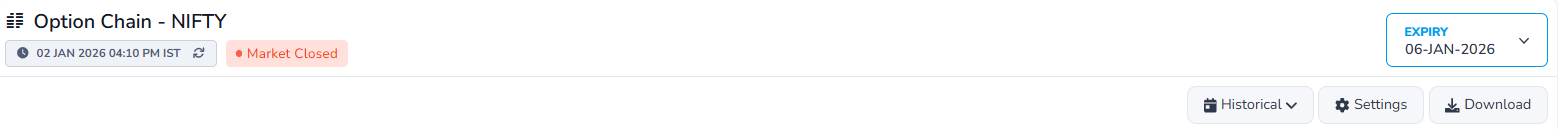
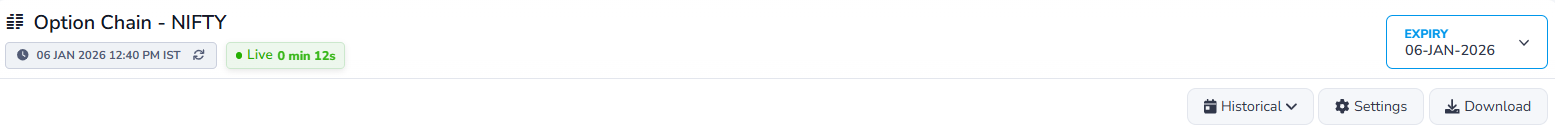
added Gif's and updated header images

diff --git a/OptionChain/optionchian.html b/OptionChain/optionchian.html
@@ -14,46 +14,62 @@
 
     <div class="container my-5 p-4 border rounded shadow-sm">
 
-         <h2 class="pb-2 border-bottom">Explanation of Headers</h2>
+          <h2 class="pb-2 border-bottom">Headers</h2>
            <div class="text-center my-4">
             <img src="assets/image_3.png" class="img-fluid img-thumbnail" alt="error loading image">
            </div>
 
-            <h2 class="pb-2 border-bottom">Left side Explanation</h2>
+            <h2 class="pb-2 border-bottom"> Explanation of Headers</h2>
             <div class="text-center my-4">
-            <img src="assets/image_4.png" class="img-fluid img-thumbnail w-75" alt="error loading image">
-           </div>
+            <img src="assets/image_4.png" class="img-fluid img-thumbnail explain-img" alt="error loading image">
+            </div>
 
-           
-            <h2 class="pb-2 border-bottom">Right side Explanation</h2>
-             <h4 class="pb-2 border-bottom">Explanation  of Expiry</h4>
+            <h4 class="pb-2"><strong>1.</strong> Last Updated Time</h4>
+            <p class="pb-2 fs-4">
+                This indicates the most recent time when the option chain data was refreshed. It helps users know how
+                current the information is.
+            </p>
+            <h4 class="pb-2"><strong>2.</strong>Live Status</h4>
+            <p class="pb-2 fs-4">
+                The Live Status indicator confirms that the option chain data is updating in real time.
+                 The timer shown next to it (for example, 0 min 12s) indicates how many seconds ago the data was last refreshed.
+            </p>
+            <div class="text-center my-4">
+              <img src="assets/image_5.png" class="img-fluid img-thumbnail" alt="error loading image">
+           </div>
+            <h4 class="pb-2"><strong>3.</strong>Expiry Selection </h4>
+            <p class="pb-2 fs-4">
+                This section allows users to select the expiry date for which they want to view the option chain data.
+                Options typically have multiple expiry dates, and selecting one updates the displayed data accordingly.
+            </p>
+
+            <h3 class="pb-2 border-bottom"> <strong>4.</strong>Explanation  of Historical data</h3>
 
             <div class="text-center my-4">
-            <img src="assets/image_5.png" class="img-fluid img-thumbnail" alt="error loading image">
+            <img src="assets/image_6.gif" class="img-fluid img-thumbnail" alt="error loading image">
            </div>
-
-            <h4 class="pb-2 border-bottom">Explanation  of Historical data</h4>
+            <p class="pb-2 fs-4">
+                The Historical option allows you to view option chain data from a past time instead of live market data.
+                 When enabled, the table stops updating in real time and displays a previously recorded snapshot of prices, Open Interest, and volume.This helps users review earlier market conditions and analyze how the option chain behaved at a specific moment.
+            </p>
+             <h3 class="pb-2 border-bottom"> <strong>5.</strong>Adjusting time in  Historical data</h3>
 
             <div class="text-center my-4">
-            <img src="assets/image_6.png" class="img-fluid img-thumbnail" alt="error loading image">
+            <img src="assets/image_7.gif" class="img-fluid img-thumbnail" alt="error loading image">
            </div>
-            <div class="text-center my-4">
-            <img src="assets/image_7.png" class="img-fluid img-thumbnail" alt="error loading image">
-           </div>
-            <div class="text-center my-4">
-            <img src="assets/image_8.png" class="img-fluid img-thumbnail" alt="error loading image">
-           </div>
-            <div class="text-center my-4">
-            <img src="assets/image_9.png" class="img-fluid img-thumbnail" alt="error loading image">
-           </div>
-            <div class="text-center my-4">
-            <img src="assets/image_10.png" class="img-fluid img-thumbnail" alt="error loading image">
-           </div>
-           
+            <p class="pb-2 fs-4">
+                This feature allows you to navigate backward or forward in time to view option chain data at different moments of the selected date.
+                <br><br>
+                <strong>Navigation buttons:</strong>
+                <ul class="pb-2 fs-5">
+                    <li>Use <strong>–5m, –15m, –30m, –1h</strong> buttons to go back and review earlier snapshots of the market.</li>
+                    <li>Use <strong>+5m, +15m, +30m, +1h</strong> buttons to move forward toward more recent data, where available.</li>
+                    <li>  The selected time is highlighted in the center, showing the exact moment for which the option chain data is displayed. This makes it easy to analyze how prices, Open Interest, and volume changed over time.</li>
+                </ul>
+            </p>
+ </div>   
 
-    </div>
-
-
+    <div class="container my-5 p-4 border rounded shadow-sm">
 
 
         <h2 class="pb-2 border-bottom">What is an Option?</h2>
@@ -139,8 +155,6 @@
             <li>Your loss is only the 100-point premium.</li>
             <div class="border-bottom"></div>
         </ul>
-
-
     </div>
     <div class="container my-5 p-4 border rounded shadow-sm">
 
